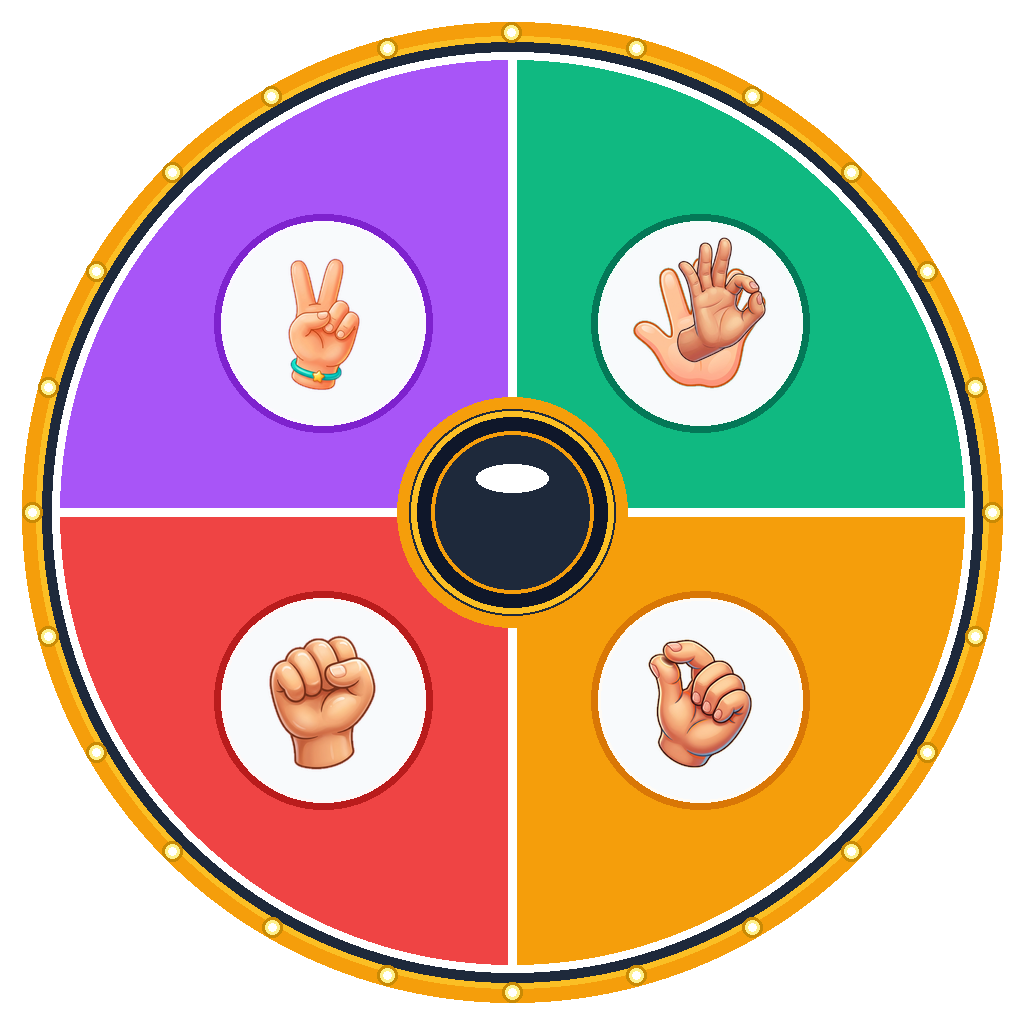
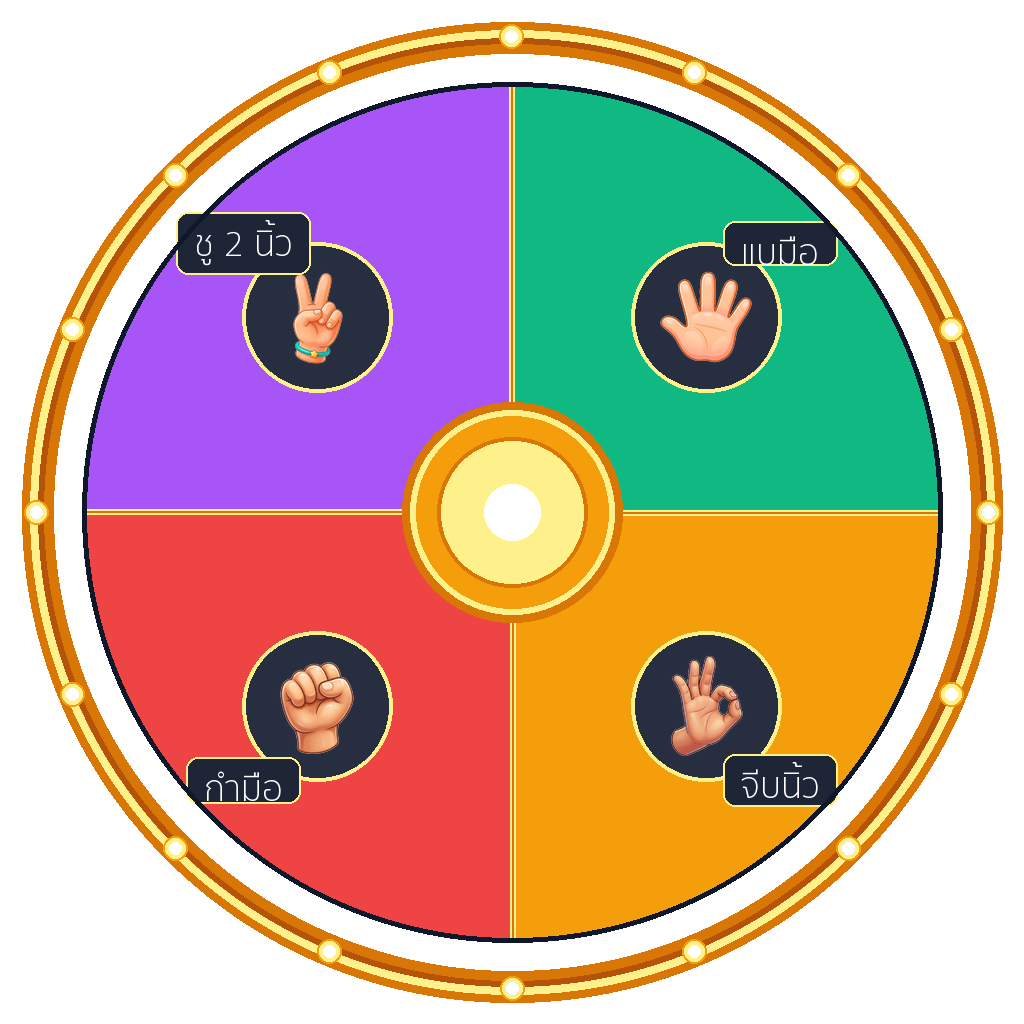
feat(roulette): regenerate ultra-HD mathematically aligned roulette wheel from Python code with authentic Thai Jeeb (จีบนิ้ว) sector replacing old grab sector

diff --git a/build_roulette_wheel.py b/build_roulette_wheel.py
@@ -1,0 +1,109 @@
+import os
+import math
+import numpy as np
+from PIL import Image, ImageDraw, ImageFont, ImageFilter
+
+WIDTH, HEIGHT = 1024, 1024
+CX, CY = WIDTH // 2, HEIGHT // 2
+R_OUTER = 490
+R_RIM = 440
+R_SECTOR = 430
+R_HUB = 110
+
+# Initialize High-Res RGBA Canvas
+canvas = Image.new("RGBA", (WIDTH, HEIGHT), (0, 0, 0, 0))
+draw = ImageDraw.Draw(canvas)
+
+# 1. 4 Quadrant Sectors
+# Wedge 0 (0° to 90°, Center 45°): จีบนิ้ว (Amber/Orange)
+# Wedge 1 (90° to 180°, Center 135°): กำมือ (Red)
+# Wedge 2 (180° to 270°, Center 225°): ชู 2 นิ้ว (Purple)
+# Wedge 3 (270° to 360°, Center 315°): แบมือ (Green)
+sectors = [
+    {"idx": 0, "name": "จีบนิ้ว", "file": "gesture_pinch.png", "col1": (245, 158, 11, 255), "col2": (217, 119, 6, 255), "deg_start": 0, "deg_end": 90, "deg_mid": 45},
+    {"idx": 1, "name": "กำมือ", "file": "gesture_fist.png", "col1": (239, 68, 68, 255), "col2": (185, 28, 28, 255), "deg_start": 90, "deg_end": 180, "deg_mid": 135},
+    {"idx": 2, "name": "ชู 2 นิ้ว", "file": "gesture_peace.png", "col1": (168, 85, 247, 255), "col2": (126, 34, 206, 255), "deg_start": 180, "deg_end": 270, "deg_mid": 225},
+    {"idx": 3, "name": "แบมือ", "file": "gesture_palm.png", "col1": (16, 185, 129, 255), "col2": (4, 120, 87, 255), "deg_start": 270, "deg_end": 360, "deg_mid": 315},
+]
+
+# Draw smooth anti-aliased sectors
+for s in sectors:
+    # Sector pie slice
+    bbox = [CX - R_SECTOR, CY - R_SECTOR, CX + R_SECTOR, CY + R_SECTOR]
+    draw.pieslice(bbox, start=s["deg_start"], end=s["deg_end"], fill=s["col1"], outline=(15, 23, 42, 255), width=3)
+
+# 2. Golden Embossed Divider Spokes
+for s in sectors:
+    ang_rad = math.radians(s["deg_start"])
+    x2 = CX + int(R_SECTOR * math.cos(ang_rad))
+    y2 = CY + int(R_SECTOR * math.sin(ang_rad))
+    # Golden Spoke Line with highlight
+    draw.line([(CX, CY), (x2, y2)], fill=(254, 240, 138, 255), width=6)
+    draw.line([(CX, CY), (x2, y2)], fill=(217, 119, 6, 255), width=2)
+
+# 3. Paste 4 3D Gesture Badges & Thai Text Labels in each Sector
+assets_gestures = "/Users/theppratan/Developer/TRXS_Org/hand_gesture_game/assets/gestures"
+try:
+    font_th = ImageFont.truetype("/System/Library/Fonts/Supplemental/SukhumvitSet.ttc", 36)
+except Exception:
+    font_th = ImageFont.load_default()
+
+badge_r = 275
+text_r = 380
+
+for s in sectors:
+    rad = math.radians(s["deg_mid"])
+    
+    # 1. Circular Badge Pod Background
+    pod_x = int(CX + badge_r * math.cos(rad))
+    pod_y = int(CY + badge_r * math.sin(rad))
+    pod_rad = 75
+    draw.ellipse([pod_x - pod_rad, pod_y - pod_rad, pod_x + pod_rad, pod_y + pod_rad], fill=(15, 23, 42, 230), outline=(254, 240, 138, 255), width=4)
+
+    # 2. Paste Gesture Icon
+    g_path = os.path.join(assets_gestures, s["file"])
+    if os.path.exists(g_path):
+        g_img = Image.open(g_path).convert("RGBA")
+        g_size = (120, 120)
+        g_resized = g_img.resize(g_size, Image.Resampling.LANCZOS)
+        canvas.paste(g_resized, (pod_x - g_size[0] // 2, pod_y - g_size[1] // 2), g_resized)
+
+    # 3. Draw Thai Text Badge
+    tx = int(CX + text_r * math.cos(rad))
+    ty = int(CY + text_r * math.sin(rad))
+    t_bbox = font_th.getbbox(s["name"])
+    tw, th = t_bbox[2] - t_bbox[0], t_bbox[3] - t_bbox[1]
+    
+    # Pill background for text
+    pill_pad_x, pill_pad_y = 18, 8
+    pill_rect = [tx - tw // 2 - pill_pad_x, ty - th // 2 - pill_pad_y, tx + tw // 2 + pill_pad_x, ty + th // 2 + pill_pad_y]
+    draw.rounded_rectangle(pill_rect, radius=12, fill=(15, 23, 42, 240), outline=(254, 240, 138, 255), width=2)
+    draw.text((tx - tw // 2, ty - th // 2 - 4), s["name"], font=font_th, fill=(255, 255, 255, 255))
+
+# 4. Outer Golden Metallic Rim & LED Bulbs
+# Outer ring glow
+draw.ellipse([CX - R_OUTER, CY - R_OUTER, CX + R_OUTER, CY + R_OUTER], outline=(217, 119, 6, 255), width=32)
+draw.ellipse([CX - (R_OUTER - 8), CY - (R_OUTER - 8), CX + (R_OUTER - 8), CY + (R_OUTER - 8)], outline=(254, 240, 138, 255), width=8)
+draw.ellipse([CX - (R_OUTER - 16), CY - (R_OUTER - 16), CX + (R_OUTER - 16), CY + (R_OUTER - 16)], outline=(180, 83, 9, 255), width=6)
+draw.ellipse([CX - R_SECTOR, CY - R_SECTOR, CX + R_SECTOR, CY + R_SECTOR], outline=(15, 23, 42, 255), width=5)
+
+# 16 Glowing LED Bulbs on the rim
+num_leds = 16
+for i in range(num_leds):
+    led_ang = math.radians(i * (360.0 / num_leds))
+    lx = int(CX + (R_OUTER - 14) * math.cos(led_ang))
+    ly = int(CY + (R_OUTER - 14) * math.sin(led_ang))
+    # Glowing bulb
+    draw.ellipse([lx - 12, ly - 12, lx + 12, ly + 12], fill=(254, 240, 138, 255), outline=(245, 158, 11, 255), width=2)
+    draw.ellipse([lx - 6, ly - 6, lx + 6, ly + 6], fill=(255, 255, 255, 255))
+
+# 5. Center Golden Hub
+draw.ellipse([CX - R_HUB, CY - R_HUB, CX + R_HUB, CY + R_HUB], fill=(15, 23, 42, 255), outline=(217, 119, 6, 255), width=10)
+draw.ellipse([CX - (R_HUB - 8), CY - (R_HUB - 8), CX + (R_HUB - 8), CY + (R_HUB - 8)], fill=(245, 158, 11, 255), outline=(254, 240, 138, 255), width=6)
+draw.ellipse([CX - (R_HUB - 35), CY - (R_HUB - 35), CX + (R_HUB - 35), CY + (R_HUB - 35)], fill=(254, 240, 138, 255), outline=(217, 119, 6, 255), width=4)
+draw.ellipse([CX - 28, CY - 28, CX + 28, CY + 28], fill=(255, 255, 255, 255))
+
+# Save High-Definition Roulette Wheel
+target_path = "/Users/theppratan/Developer/TRXS_Org/hand_gesture_game/assets/ui/roulette_wheel.png"
+canvas.save(target_path, "PNG")
+print("High-definition, mathematically aligned Roulette Wheel generated successfully at:", target_path)
